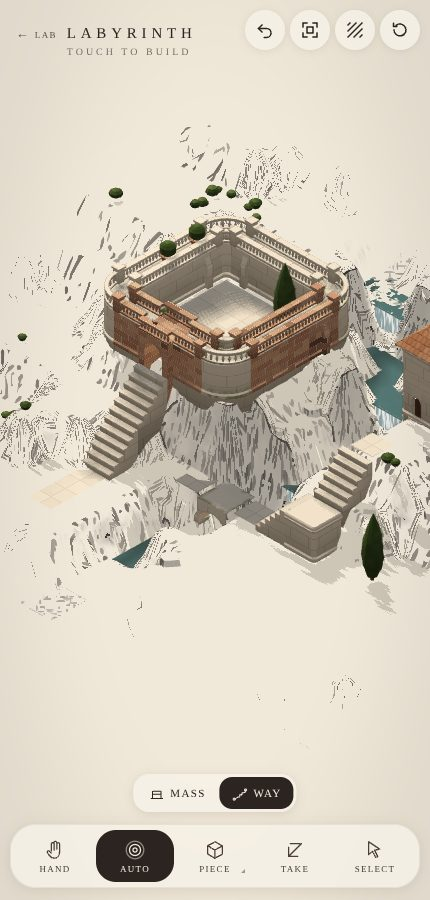
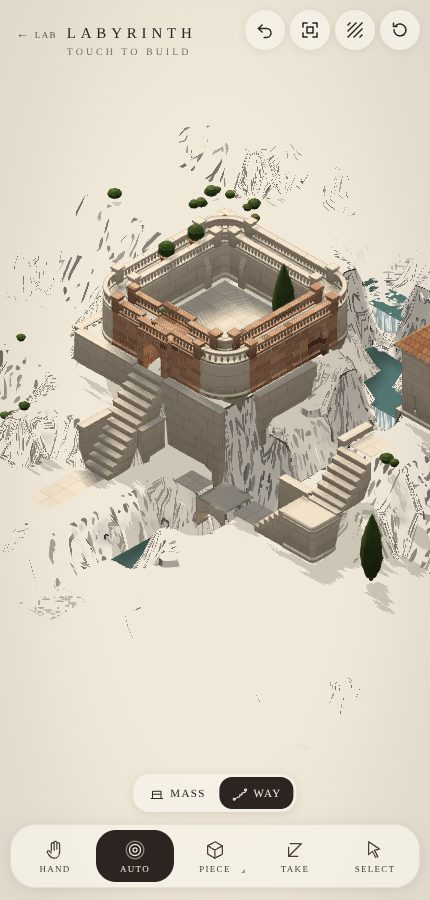
lab: labyrinth — forms chosen by their surroundings: retaining walls holding used banks, buildings stepping with the slope under lean-tos, houses set into hills (roof away from the hill, a door from above); story 15, views, README
Claude-Session: https://claude.ai/code/session_01D2Nx3PayKJtFYoab5A57H3

diff --git a/cells/lab/client/labyrinth/buildings.ts b/cells/lab/client/labyrinth/buildings.ts
@@ -66,9 +66,22 @@ function find(w: World): Buildings {
   const seen = new Set<number>();
   // (the walk as the stone shows it, and what of it can be reached from the slab)
   const nav = navigate(w), ground = new Set<number>(), st: number[] = [];
-  for (const v of nav.places) if (unkey(v)[0] === 0) { ground.add(v); st.push(v); }
+  // (on the land, its ground at each column's own level)
+  for (const v of nav.places) { const [k, i, j] = unkey(v); if (k === w.ground(i, j)) { ground.add(v); st.push(v); } }
   while (st.length) { const v = st.pop()!; for (const u of nav.next.get(v) ?? []) if (!ground.has(u)) { ground.add(u); st.push(u); } }
   const chance = (p: number, ...n: number[]) => hash(w.seed, ...n) % 1000 < p * 1000;
+  // (masses as a whole, whatever height each column of them reaches: one built across a slope, steps of it at
+  // different heights, is read as stepping, each step a building of its own if the whole is deep)
+  const anyH = (i: number, j: number) => solid(i, j, height(i, j));
+  const massOf = new Map<string, { deep: boolean; heights: Set<number> }>();
+  for (let j = e.j0; j <= e.j1; j++) for (let i = e.i0; i <= e.i1; i++) {
+    if (!anyH(i, j) || massOf.has(`${i}.${j}`)) continue;
+    const m = { deep: false, heights: new Set<number>() }, q: Array<[number, number]> = [[i, j]], cs: Array<[number, number]> = [];
+    massOf.set(`${i}.${j}`, m);
+    while (q.length) { const [x, z] = q.pop()!; cs.push([x, z]); m.heights.add(height(x, z)); for (const [a, b] of DIRS) if (anyH(x + a, z + b) && !massOf.has(`${x + a}.${z + b}`)) { massOf.set(`${x + a}.${z + b}`, m); q.push([x + a, z + b]); } }
+    const has = new Set(cs.map(([x, z]) => `${x}.${z}`));
+    m.deep = cs.some(([x, z]) => has.has(`${x + 1}.${z}`) && has.has(`${x}.${z + 1}`) && has.has(`${x + 1}.${z + 1}`));
+  }
 
   for (let j = e.j0; j <= e.j1; j++) for (let i = e.i0; i <= e.i1; i++) {
     const h = height(i, j);
@@ -82,7 +95,8 @@ function find(w: World): Buildings {
     // (a stair tower, put where a climb was too steep for a flight: a building however slim, two high or more)
     const stairTower = cols.find(([x, z]) => isTower(w.rules.get(key(0, x, z))));
     const deep = cols.some(([x, z]) => has.has(`${x + 1}.${z}`) && has.has(`${x}.${z + 1}`) && has.has(`${x + 1}.${z + 1}`)), tower = (cols.length <= 2 && h >= 3) || !!stairTower;
-    if (!deep && !tower) continue;
+    const whole = massOf.get(`${i}.${j}`);
+    if (!deep && !tower && !(whole?.deep && whole.heights.size > 1)) continue;
     const mine = new Set(cols.map(([x, z]) => `${x}.${z}`)), id = Math.min(...cols.map(([x, z]) => key(h - 1, x, z)));
     const b: Building = { cols, h, i0, i1, j0, j1, rect: cols.length === (i1 - i0 + 1) * (j1 - j0 + 1), tower, openings: [], inside: false, walked: false, roof: null, id, fall: -1 };
     // (its faces: each column's sides that look out, at each level, and what's outside them)
@@ -90,7 +104,7 @@ function find(w: World): Buildings {
     for (const [x, z] of cols) for (let d = 0; d < 4; d++) {
       const [a, bb] = DIRS[d];
       if (mine.has(`${x + a}.${z + bb}`)) continue;
-      for (let k = w.ground(x, z); k < h; k++) if (!w.stone(k, x + a, z + bb) && w.stair(k, x + a, z + bb) < 0) faces.push({ k, i: x, j: z, d, out: [k, x + a, z + bb] });
+      for (let k = w.ground(x, z); k < h; k++) if (!w.stone(k, x + a, z + bb) && w.stair(k, x + a, z + bb) < 0 && !w.earth(k, x + a, z + bb)) faces.push({ k, i: x, j: z, d, out: [k, x + a, z + bb] });
     }
     // (its top: walked if a way arrives there from beyond it)
     const tops = cols.map(([x, z]) => key(h, x, z)).filter((v) => nav.places.has(v)), topSet = new Set(tops);
@@ -98,7 +112,9 @@ function find(w: World): Buildings {
     const arrives = tops.some((v) => (nav.next.get(v) ?? []).some((u) => !topSet.has(u))) || (!!stairTower && tops.length > 0);
     // (doors where ways arrive against its walls, at height)
     const placeAt = (c: Cell) => key(...c);
-    const upper = faces.filter((f) => f.k >= 1 && standing(w, ...f.out));
+    // (above its own foot: a door from a way at height, or (set into a bank) from the hill above)
+    // (not out onto another building's top: that's under its roof)
+    const upper = faces.filter((f) => f.k > w.ground(f.i, f.j) && standing(w, ...f.out) && !(anyH(f.out[1], f.out[2]) && height(f.out[1], f.out[2]) === f.k));
     // (a stair inside, if a way at one of those doors, or on its top, can't be reached from the slab otherwise)
     const unreached = upper.some((f) => !ground.has(placeAt(f.out))) || (arrives && tops.some((v) => !ground.has(v)));
     const foot = faces.filter((f) => f.k === w.ground(f.i, f.j) && standing(w, ...f.out) && ground.has(placeAt(f.out)));
@@ -146,9 +162,13 @@ function find(w: World): Buildings {
       // (the rules' choice: leaning on taller stone, a shed roof falling away from it; square, hipped (now and then a dome
       // on a tower); long, a gable along it)
       const W = i1 - i0 + 1, D = j1 - j0 + 1;
-      const taller = [0, 1, 2, 3].filter((d) => { const [a, bb] = DIRS[d]; return cols.every(([x, z]) => mine.has(`${x + a}.${z + bb}`) || height(x + a, z + bb) > h) && cols.some(([x, z]) => !mine.has(`${x + a}.${z + bb}`)); });
-      b.roof = taller.length === 1 ? 'shed' : W === D ? (tower && chance(0.35, id, 4) ? 'dome' : 'hipped') : chance(0.25, id, 5) ? 'hipped' : 'gable';
-      if (taller.length === 1) b.fall = (taller[0] + 2) % 4;
+      // (against taller stone, or set into a bank whose ground comes up to its eaves: the hill)
+      const taller = [0, 1, 2, 3].filter((d) => { const [a, bb] = DIRS[d]; const out = cols.filter(([x, z]) => !mine.has(`${x + a}.${z + bb}`)); return out.length > 0 && out.filter(([x, z]) => height(x + a, z + bb) > h || (!!w.land && w.ground(x + a, z + bb) >= h - 1)).length * 2 >= out.length; });
+      // (leaning on more than one side, it falls away from the highest)
+      const rise = (d: number) => { const [a, bb] = DIRS[d], o = cols.filter(([x, z]) => !mine.has(`${x + a}.${z + bb}`)); return o.reduce((t, [x, z]) => t + Math.max(height(x + a, z + bb), w.ground(x + a, z + bb)), 0) / Math.max(1, o.length); };
+      const lean = taller.sort((p, q) => rise(q) - rise(p) || p - q)[0];
+      b.roof = taller.length ? 'shed' : W === D ? (tower && chance(0.35, id, 4) ? 'dome' : 'hipped') : chance(0.25, id, 5) ? 'hipped' : 'gable';
+      if (taller.length) b.fall = (lean + 2) % 4;
     }
     if (b.roof === 'shed' && b.fall < 0) b.fall = (hash(w.seed, id, 6) % 4);
     if (b.roof && b.roof !== 'shed') b.fall = -1;

diff --git a/cells/lab/client/labyrinth/mesh.ts b/cells/lab/client/labyrinth/mesh.ts
@@ -22,6 +22,7 @@ import { buildings, opening, type Building, type Opening } from './buildings';
 import { BUT, BUTH, BUTW, WT, buttresses, inBlock, outline, reach, wallCell, type Edge } from './form';
 import { CENTER, DECK, DIRS, DRESS, key, unkey, type Span, type World } from './model';
 import { LAND, surfaceY } from './land';
+import { groundY, retaining } from './context';
 
 /** floats a vertex: position, normal, ao (1 open .. 0 shut in), material (MAT), its rising (when laid, the height it
  * grows from, how), and a seed for its stone's tone */
@@ -702,7 +703,7 @@ export function buildMesh(w: World, plain = false, selected: Set<number> = new S
    */
   function landMesh() {
     const land = w.land!, B = w.extent(), x0 = B.i0, x1 = B.i1 + 1, z0 = B.j0, z1 = B.j1 + 1, RES = (x1 - x0) * (z1 - z0) > 500 ? 3 : 4;
-    const Y = (gx: number, gz: number) => surfaceY(land, Math.min(x1 - 1e-4, Math.max(x0, gx)), Math.min(z1 - 1e-4, Math.max(z0, gz)));
+    const Y = (gx: number, gz: number) => groundY(w, Math.min(x1 - 1e-4, Math.max(x0, gx)), Math.min(z1 - 1e-4, Math.max(z0, gz)));
     cur = { born: -1e3, pivot: 0, how: 1, tone: 0.5, dress: 0, sel: false };
     const nx = (x1 - x0) * RES, nz = (z1 - z0) * RES;
     const P = (a: number, b: number): V3 => { const gx = x0 + a / RES, gz = z0 + b / RES; return [gx - CENTER, Y(gx, gz), gz - CENTER]; };
@@ -748,6 +749,8 @@ export function buildMesh(w: World, plain = false, selected: Set<number> = new S
       cur = { born: -1e3, pivot: 0, how: 1, tone: 0, dress: 0, sel: selected.has(key(g, i, j)) };
       quad([cx + e(2), y, cz + e(3)], [cx + 1 - e(0), y, cz + e(3)], [cx + 1 - e(0), y, cz + 1 - e(1)], [cx + e(2), y, cz + 1 - e(1)], [0, 1, 0], 0.95, MAT.court);
     }
+    // (banks held by walls, where what's beside them is used: context.ts)
+    for (const r of new Set(retaining(w).values())) retainingWall(r);
     cur = { born: -1e3, pivot: 0, how: 1, tone: 0.5, dress: 0, sel: false };
     // (what grows and lies on it, sparing, where nothing's built)
     const r = (...n: number[]) => hash(land.seed, ...n) / 4294967296;
@@ -787,6 +790,33 @@ export function buildMesh(w: World, plain = false, selected: Set<number> = new S
       else if (!bank && r(q, 30) < 0.035) cypress(i, j, g, -1e3, 3 + 0.999 * r(q, 42));
     }
     cur = { born: -1e3, pivot: 0, how: 1, tone: 0, dress: 0, sel: false };
+  }
+  /**
+   * A retaining wall, holding a bank where it's used: along the edge between the high cell and the low, its face out
+   * into the low one, battered (thicker at its foot), from a little under the low ground up to the high, coped; a low
+   * upstand over the coping where the ground above is open; an end where it doesn't run on
+   */
+  function retainingWall(r: { i: number; j: number; d: number; lo: number; hi: number }) {
+    const [a, b] = DIRS[r.d], [ta, tb] = DIRS[(r.d + 1) % 4], bx = X(r.i) + 0.5 + a * 0.5, bz = Z(r.j) + 0.5 + b * 0.5;
+    const up = w.occupied(r.hi, r.i, r.j) ? 0 : 0.1, yb = r.lo - 0.35, yt = r.hi + up, TB = 0.24, TT = 0.13, C = 0.05;
+    const P = (s: number, u: number, y: number): V3 => [bx + ta * s + a * u, y, bz + tb * s + b * u];
+    const on = (sg: number) => retaining(w).has(`${r.i + sg * ta}.${r.j + sg * tb}.${r.d}`);
+    cur = { born: -1e3, pivot: yb, how: 1, tone: (((r.i * 73856093) ^ (r.j * 19349663) ^ (r.d * 83492791)) >>> 0) / 4294967296, dress: 0, sel: false };
+    const n = Math.hypot(yt - yb, TB - TT);
+    quad(P(-0.5, TB, yb), P(0.5, TB, yb), P(0.5, TT, yt), P(-0.5, TT, yt), [a * (yt - yb) / n, (TB - TT) / n, b * (yt - yb) / n], [0.55, 0.55, 0.9, 0.9], MAT.stone);
+    // (its coping: out a little either side, its top, its edges)
+    const c0 = -0.07, c1 = TT + 0.04;
+    quad(P(-0.5, c0, yt + C), P(0.5, c0, yt + C), P(0.5, c1, yt + C), P(-0.5, c1, yt + C), [0, 1, 0], 1, MAT.stone);
+    quad(P(-0.5, c1, yt), P(0.5, c1, yt), P(0.5, c1, yt + C), P(-0.5, c1, yt + C), [a, 0, b], 0.9, MAT.stone);
+    quad(P(-0.5, c1, yt), P(0.5, c1, yt), P(0.5, TT, yt), P(-0.5, TT, yt), [0, -1, 0], 0.5, MAT.stone);
+    if (up > 0) quad(P(-0.5, c0, r.hi), P(0.5, c0, r.hi), P(0.5, c0, yt + C), P(-0.5, c0, yt + C), [-a, 0, -b], 0.85, MAT.stone);
+    for (const sg of [-1, 1]) {
+      if (on(sg)) continue;
+      const s = sg * 0.5;
+      quad(P(s, 0, yb), P(s, TB, yb), P(s, TT, yt), P(s, 0, yt), [ta * sg, 0, tb * sg], 0.8, MAT.stone);
+      quad(P(s, c0, yt), P(s, c1, yt), P(s, c1, yt + C), P(s, c0, yt + C), [ta * sg, 0, tb * sg], 0.9, MAT.stone);
+      if (up > 0) quad(P(s, c0, r.hi), P(s, 0, r.hi), P(s, 0, yt), P(s, c0, yt), [ta * sg, 0, tb * sg], 0.85, MAT.stone);
+    }
   }
   /** a thin wall: a wall's thickness, full height, running out from its middle to the stone beside it */
   function thinWall(k: number, i: number, j: number) {
@@ -1187,6 +1217,6 @@ export function inStone(w: World, x: number, y: number, z: number): boolean {
 export function inLand(w: World, x: number, y: number, z: number): boolean {
   if (!w.land) return false;
   if (!w.onSlab(Math.floor(x + CENTER), Math.floor(z + CENTER))) return false;
-  const sy = surfaceY(w.land, x + CENTER, z + CENTER);
+  const sy = groundY(w, x + CENTER, z + CENTER);
   return sy >= 0 && y < sy;
 }

diff --git a/cells/lab/client/labyrinth/context.ts b/cells/lab/client/labyrinth/context.ts
@@ -1,0 +1,60 @@
+/**
+ * Forms chosen by their surroundings: what the land and what's built beside it ask of each other, worked out from the
+ * resolved world (model.ts), the same every time.
+ *
+ * - **Retaining walls**: where the land steps down a bank (one to three levels) and either side of it is used (a way, a
+ *   court's or a way's paving, something built at the ground, a pool, a bowl), the bank is held by a wall of dressed
+ *   stone instead of falling away: the ground either side flat to it, its face battered, coped along its top (a low
+ *   upstand where the ground above is open). Not where a stair climbs the bank (its own steps hold it), nor along water.
+ * - **Buildings stepping with the slope** (buildings.ts): a mass built across ground at different levels is read as
+ *   steps, each its own building at its own height, the lower against the higher under a lean-to; set into a bank, a
+ *   house's roof falls away from the hill, and it's come into from the hill above as well as from below; the wall a
+ *   building's downhill side stands on carried down to the lower ground (a retaining wall under it).
+ */
+import { DIRS, key, type World } from './model';
+import { surfaceY } from './land';
+
+/** a bank held by a wall: the high cell, the way to the low one, the two grounds */
+export interface Retain { i: number; j: number; d: number; lo: number; hi: number }
+const cache = new WeakMap<World, { v: number; r: Map<string, Retain>; sharp: (i: number, j: number, d: number) => boolean }>();
+
+/** where the land's banks are held by walls (keyed from both sides: `i.j.d`) */
+export function retaining(w: World): Map<string, Retain> { return worked(w).r; }
+function worked(w: World) {
+  const c = cache.get(w);
+  if (c && c.v === w.version) return c;
+  const r = new Map<string, Retain>();
+  if (w.land) {
+    const e = w.extent(), wet = (i: number, j: number) => !!w.land?.water.has(j * 1000 + i);
+    const used = (i: number, j: number) => {
+      const g = w.ground(i, j);
+      return w.paved(i, j) || w.courts.has(key(0, i, j)) || w.occupied(g, i, j) || w.way(g, i, j) || w.bowl(g, i, j) || w.pools.has(key(0, i, j)) || w.tree(g, i, j);
+    };
+    for (let j = e.j0; j <= e.j1; j++) for (let i = e.i0; i <= e.i1; i++) {
+      const hi = w.ground(i, j);
+      if (wet(i, j)) continue;
+      for (let d = 0; d < 4; d++) {
+        const [a, b] = DIRS[d], x = i + a, z = j + b;
+        if (!w.onSlab(x, z) || wet(x, z)) continue;
+        const lo = w.ground(x, z), drop = hi - lo;
+        if (drop < 1 || drop > 3 || !(used(i, j) || used(x, z))) continue;
+        // (not where a stair climbs it: its steps hold it)
+        if (w.stair(lo, x, z) === (d + 2) % 4 || w.stair(hi - 1, x, z) === (d + 2) % 4) continue;
+        const it = { i, j, d, lo, hi };
+        r.set(`${i}.${j}.${d}`, it); r.set(`${x}.${z}.${(d + 2) % 4}`, it);
+      }
+    }
+  }
+  const out = { v: w.version, r, sharp: (i: number, j: number, d: number) => r.has(`${i}.${j}.${d}`) };
+  cache.set(w, out);
+  return out;
+}
+/** the ground as it's drawn (grid units: cell (i, j) spans i..i+1), its banks held where they're walled */
+export function groundY(w: World, x: number, z: number): number {
+  if (!w.land) return 0;
+  const s = worked(w).sharp, y = surfaceY(w.land, x, z, s);
+  // (on a cell's edge, where a wall holds the bank, the higher side's)
+  const fx = x - Math.round(x), fz = z - Math.round(z);
+  if (Math.abs(fx) < 1e-6 || Math.abs(fz) < 1e-6) return Math.max(y, surfaceY(w.land, x - 1e-4, z - 1e-4, s), surfaceY(w.land, x + 1e-4, z + 1e-4, s), surfaceY(w.land, x - 1e-4, z + 1e-4, s), surfaceY(w.land, x + 1e-4, z - 1e-4, s));
+  return y;
+}

diff --git a/cells/lab/experiments.ts b/cells/lab/experiments.ts
@@ -28,7 +28,7 @@ export const EXPERIMENTS: Experiment[] = [
     id: 'labyrinth', title: 'Labyrinth', group: 'Play',
     blurb: 'Architecture that follows the hand, on a piece of land: shelves, a ravine with a stream, an outcrop (or the flat travertine slab). Five brushes: auto reads gestures (tap raises, trace builds a wall, reaches out or climbs) and the stone works out what it takes to stand; a piece brush for one thing exactly, or dressing (brick, marble, moss, ivy, parapets, lanterns, pots); take; and select, to take up a piece or a whole arcade, flight or tower and read it another way. Arches and arcades under what has nothing beneath it, courtyards where walls close round the ground. Kept as a print, too.',
     page: 'static/labyrinth.html', preview: 'preview', readme: 'static/labyrinth.md',
-    presets: [{ label: 'the land', query: 'land=6' }, { label: '12 · on the land', query: 'story=12' }, { label: '13 · a place for cats', query: 'story=13' }, { label: '14 · water', query: 'story=14' }, { label: 'the stone', query: 'ops=[]' }, { label: '1 · first touch', query: 'story=1' }, { label: '2 · a traced wall', query: 'story=2' }, { label: '3 · an elevated connection', query: 'story=3' }, { label: '4 · a resolved labyrinth', query: 'story=4' }, { label: 'motifs and dressing', query: 'story=6' }, { label: 'auto alone, no cap', query: 'story=7' }, { label: '8 · a labyrinth', query: 'story=8' }, { label: '9 · features and rhythms', query: 'story=9' }, { label: '10 · flow', query: 'story=10' }, { label: '11 · gestures read', query: 'story=11' }, { label: 'as a print', query: 'story=4&print' }],
+    presets: [{ label: 'the land', query: 'land=6' }, { label: '12 · on the land', query: 'story=12' }, { label: '13 · a place for cats', query: 'story=13' }, { label: '14 · water', query: 'story=14' }, { label: '15 · on the slope', query: 'story=15' }, { label: 'the stone', query: 'ops=[]' }, { label: '1 · first touch', query: 'story=1' }, { label: '2 · a traced wall', query: 'story=2' }, { label: '3 · an elevated connection', query: 'story=3' }, { label: '4 · a resolved labyrinth', query: 'story=4' }, { label: 'motifs and dressing', query: 'story=6' }, { label: 'auto alone, no cap', query: 'story=7' }, { label: '8 · a labyrinth', query: 'story=8' }, { label: '9 · features and rhythms', query: 'story=9' }, { label: '10 · flow', query: 'story=10' }, { label: '11 · gestures read', query: 'story=11' }, { label: 'as a print', query: 'story=4&print' }],
   },
   {
     id: 'fab', title: 'Fab', group: 'Play',

diff --git a/cells/lab/client/labyrinth/cats.ts b/cells/lab/client/labyrinth/cats.ts
@@ -20,7 +20,7 @@
 import { hash, seeded, type Rand } from '../kit/rng';
 import { CENTER, DIRS, unkey, type World } from './model';
 import { inStone } from './mesh';
-import { surfaceY } from './land';
+import { groundY } from './context';
 import { perches, route, reachable, stairY, type Link, type Perches, type Spot } from './perches';
 import { POSES, S, cat as body, gait, look, mix, type Out, type Pose, type PoseName } from './catbody';
 
@@ -226,7 +226,7 @@ export class Cats {
     // (on a place that's still there, it's held (a parapet's top isn't stone a touch strikes, but it's stood on))
     const s = this.place(c.at);
     if (s && Math.hypot(s.x - c.x, s.y - c.y, s.z - c.z) < 0.2) return;
-    const ground = w.land ? surfaceY(w.land, c.x + CENTER, c.z + CENTER) : 0;
+    const ground = groundY(w, c.x + CENTER, c.z + CENTER);
     if (c.y > ground + 0.05 && !solid(c.y - 0.06) && !solid(c.y - 0.2) && c.moving < 0.02 && this.t - this.built > 1) this.stale = true;
   }
 
@@ -320,14 +320,14 @@ export class Cats {
   /** one link: a walk, a jump, or a way through a building unseen */
   private *traverse(c: Cat, a: Spot, b: Spot, l: Link, speed: number): Task {
     const land = this.w!.land;
-    const groundY = (x: number, z: number) => (land ? surfaceY(land, x + CENTER, z + CENTER) : 0);
+    const onGroundY = (x: number, z: number) => (land ? groundY(this.w!, x + CENTER, z + CENTER) : 0);
     if (l.kind === 'walk') {
       const y0 = c.y, onGround = a.ground && b.ground;
       // (on a stair: along its steps' noses, by where it is in the stair's cell)
       const u = (s: Spot, x: number, z: number) => 0.5 + (x - s.x) * DIRS[s.d][0] + (z - s.z) * DIRS[s.d][1];
       const stairs = [a, b].filter((s) => s.kind === 'stair');
       const onStair = (x: number, z: number) => { const s = stairs.find((q) => { const v = u(q, x, z); return v >= 0 && v <= 1; }) ?? stairs[0]; return stairY(s.k, u(s, x, z)); };
-      yield* this.walkTo(c, b.x, b.z, speed, (f, x, z) => (stairs.length ? onStair(x, z) : onGround ? groundY(x, z) : y0 + (b.y - y0) * f));
+      yield* this.walkTo(c, b.x, b.z, speed, (f, x, z) => (stairs.length ? onStair(x, z) : onGround ? onGroundY(x, z) : y0 + (b.y - y0) * f));
       return;
     }
     if (l.kind === 'inside') {

diff --git a/cells/lab/client/labyrinth/demo.ts b/cells/lab/client/labyrinth/demo.ts
@@ -39,6 +39,7 @@ export function story(stage: number): World {
   if (stage === 12) return onTheLand();
   if (stage === 13) return forCats();
   if (stage === 14) return water();
+  if (stage === 15) return onTheSlope();
   const w = new World(7);
   const t = -100;
   const tapAt = (p: Pick) => { const op = tap(w, p, t); if (op && !('refused' in op)) w.apply(op, t); };
@@ -313,5 +314,25 @@ function water(): World {
   apply(run(w, 'pool', top(2, 8), [[2, 8], [3, 8], [4, 8], [5, 8], [6, 8], [7, 8]], 0, t));
   // (a pond: the pool brush drawn round, back to its start)
   apply(run(w, 'pool', g(9, 2), [[9, 2], [10, 2], [11, 2], [11, 3], [11, 4], [11, 5], [10, 5], [9, 5], [9, 4], [9, 3]], 0, t));
+  return w;
+}
+
+/**
+ * storyboard 15: forms chosen by their surroundings, on the land. A house built across a bank, two storeys on each
+ * side of it: read as two steps, each under a lean-to, the lower against the higher, the higher's falling away from the
+ * hill. A house set into a cliff, three storeys: its roof falls away from the hill and it's come into from the hill
+ * above as well as from below. A way up the slope: where it runs along a bank, the bank's held by a wall.
+ */
+function onTheSlope(): World {
+  const w = new World(41, 6), t = -100;
+  const g = (i: number, j: number): Pick => { const k = w.ground(i, j); return { face: 'ground', hit: [k - 1, i, j], to: [k, i, j] }; };
+  const raise = (i: number, j: number, n: number) => w.apply({ add: Array.from({ length: n }, (_, k) => [w.ground(i, j) + k, i, j, t] as [number, number, number, number]) }, t);
+  // (across the bank: two storeys on each side of it)
+  for (const i of [10, 11]) for (const j of [4, 5, 6, 7]) raise(i, j, 2);
+  // (set into the cliff: three storeys, the hill at its back two storeys up)
+  for (const i of [2, 3]) raise(i, 7, 3);
+  // (a way from the low ground up past them)
+  const op = trace(w, g(7, 10), [[7, 10], [7, 9], [7, 8], [7, 7], [7, 6], [7, 5], [7, 4], [8, 4], [8, 3], [8, 2]], g(8, 2), () => t, t, [], 'way');
+  if (op && !('refused' in op)) w.apply({ ...op, alts: undefined }, t);
   return w;
 }

diff --git a/cells/lab/client/labyrinth/land.ts b/cells/lab/client/labyrinth/land.ts
@@ -167,14 +167,15 @@ export const groundOf = (land: Land, i: number, j: number) => (onLand(i, j) ? la
  * its column's level through its middle, meeting its neighbours' across the band at its edge, roughened where it slopes.
  * Off the land, nothing (−1).
  */
-export function surfaceY(land: Land, x: number, z: number): number {
+export function surfaceY(land: Land, x: number, z: number, sharp?: (i: number, j: number, d: number) => boolean): number {
   const i = Math.floor(x), j = Math.floor(z);
   if (!onLand(i, j)) return -1;
   // (the stream's bed a little under its banks)
   const G = (a: number, b: number) => { const x = Math.max(DOMAIN.i0, Math.min(DOMAIN.i1, a)), y = Math.max(DOMAIN.j0, Math.min(DOMAIN.j1, b)); return land.g[atD(x, y)] - (land.water.has(y * 1000 + x) ? 0.3 : 0); };
   const fx = x - i - 0.5, fz = z - j - 0.5, sx = Math.sign(fx) || 1, sz = Math.sign(fz) || 1;
   // (how far into the band toward the neighbour each way: none through the flat middle, a half at the cell's edge)
-  const wx = 0.5 * smooth(FLAT * 0.5, 0.5, Math.abs(fx)), wz = 0.5 * smooth(FLAT * 0.5, 0.5, Math.abs(fz));
+  // (where a bank's held by a wall (`sharp`, toward a neighbour: 0 +x, 1 +z, 2 −x, 3 −z), each side flat to the wall)
+  const wx = sharp?.(i, j, sx > 0 ? 0 : 2) ? 0 : 0.5 * smooth(FLAT * 0.5, 0.5, Math.abs(fx)), wz = sharp?.(i, j, sz > 0 ? 1 : 3) ? 0 : 0.5 * smooth(FLAT * 0.5, 0.5, Math.abs(fz));
   const g0 = G(i, j), gx = G(i + sx, j), gz = G(i, j + sz), gd = G(i + sx, j + sz);
   let y = g0 + wx * (gx - g0) + wz * (gz - g0) + wx * wz * (gd - gx - gz + g0);
   // (rough where it slopes: a bank's not a ramp)

diff --git a/cells/lab/client/labyrinth/perches.ts b/cells/lab/client/labyrinth/perches.ts
@@ -22,7 +22,7 @@ import { navigate } from './nav';
 import { buildings } from './buildings';
 import { inStone, parapets, wallArms } from './mesh';
 import { reach } from './form';
-import { surfaceY } from './land';
+import { groundY, retaining } from './context';
 import { SUN } from './render';
 
 export type SpotKind = 'floor' | 'stair' | 'arch' | 'coping' | 'ledge' | 'rail';
@@ -91,7 +91,7 @@ export function perches(w: World): Perches {
     if (w.archway(k, i, j) >= 0 && !w.span(k, i, j)) { const s = add('arch', k, i, j, x, k, z, w.archway(k, i, j)); if (s) atCell.set(v, s.id); continue; }
     if (roofTop.has(v)) continue;
     if (k === g && decor.has(j * 1000 + i)) continue;
-    const y = w.land && k === g ? surfaceY(w.land, i + 0.5, j + 0.5) : k;
+    const y = w.land && k === g ? groundY(w, i + 0.5, j + 0.5) : k;
     if (k > g && !solid(x, y - 0.04, z)) continue;
     if (!roomy(x, y, z)) continue;
     const coping = k > 0 && w.wall(k - 1, i, j) >= 0;
@@ -124,7 +124,7 @@ export function perches(w: World): Perches {
     if (!a.ground) continue;
     for (const [p, q] of DIRS) {
       const b = spotAt(w.ground(a.i + p, a.j + q), a.i + p, a.j + q);
-      if (b?.ground && Math.abs(b.k - a.k) === 1) link(a, b, 'walk', 1.7);
+      if (b?.ground && Math.abs(b.k - a.k) === 1 && !retaining(w).has(`${a.i}.${a.j}.${DIRS.findIndex(([x, z]) => x === p && z === q)}`)) link(a, b, 'walk', 1.7);
     }
   }
 

diff --git a/cells/lab/static/labyrinth.md b/cells/lab/static/labyrinth.md
@@ -64,6 +64,18 @@ Next for the land:
 - keeping open: a passage, view or court protected from what auto builds later;
 - the land shaped by hand.
 
+## Forms chosen by their surroundings
+
+What's built and the land it's on ask things of each other (`context.ts`, `buildings.ts`), worked out afresh each time:
+
+- **Retaining walls.** Where the land steps down a bank (one to three levels) and either side of it is used (a way, paving, a court, something built at the ground, a pool, a bowl), the bank is held by a wall of dressed stone instead of falling away: the ground flat to it either side, its face battered (thicker at its foot), coped along its top, a low upstand where the ground above is open, an end where it doesn't run on. Not where a stair climbs the bank (its steps hold it), nor along the stream. The walk, the picking and the cats all take the ground as held.
+- **Buildings stepping with the slope.** A mass built across ground at different levels, so many storeys each side, is read as steps: each its own building at its own height (the whole deep enough to be lived in, even where a step is a single cell deep), the lower leaning on the higher under a lean-to. Its downhill side stands on the wall that holds the bank under it.
+- **Set into a hill.** A house whose ground behind it comes up to its eaves leans on the hill: its roof falls away from it (leaning on more than one side, away from the highest), and it's come into from the hill above, a door at the hill's level, as well as from below. No window or door looks into the earth; none opens onto another building's roof.
+- **Water** asks for its own: a bowl where it falls, a lip at its spout, no roof over it (below).
+
+![story 15: a house built across a bank, two steps under lean-tos falling downhill; a tower set into the cliff, its roof falling away from the hill, a door from the hill above; a way up the slope, its banks held by walls](labyrinth/v-slope.jpg)
+![close: the steps, the walls holding the bank beside the way](labyrinth/v-slope-close.jpg)
+
 ## Water
 
 **The pool brush lets water into whatever it touches**: the ground (a pool), or a top, up off the ground (a basin, let into the stone, a rim round it). Traced, it runs a channel along the stroke, along the ground or along a top. **A stroke drawn round, back to where it began, fills what it closes round**: a pond on the ground, a basin across a terrace. (With the block brush the same: a platform, filled.)
@@ -543,6 +555,7 @@ From the resolved world (`mesh.ts`), then WebGL2 (`render.ts`):
 ## Next
 
 - **Cats, further**: tails and ears answering each other; a mother and kittens; cats on roofs; a cat followed into a building's door; more of a cat's own places (a sill, a pot, a sunny step).
+- **Surroundings, further**: terraces cut into a hill as a gesture (a way's stroke that levels the ground it crosses); a building's windows turned to the view and its blank wall to the hill; a garden wall following the slope in steps; a bridge's abutments built into the banks.
 - **Water, further**: fountains (a jet in a court's pool), runnels along a way, water through an arch (a mill-race), a basin read as a cistern; a stream turned aside by what's built.
 - **Intent brushes**: a *path* (say where you want to walk, and the walk graph makes it walkable), *keep open* (nothing is to go here).
 - **Stamps**: whole motifs put at once (a gate, a cloister, a loggia).

diff --git a/cells/lab/static/labyrinth/views.md b/cells/lab/static/labyrinth/views.md
@@ -55,6 +55,11 @@ Made by `node cells/lab/views.mjs labyrinth` from `client/labyrinth/views.mjs`. 
 ![Another: another seed: another piece of land](v-land-2.jpg)
 ![Built at its edge: a house built at the land's edge: four more cells of the same land appear that way, from the same seed](v-land-grown.jpg)
 
+## Forms chosen by their surroundings
+
+![15 · On the slope: a house across a bank, read as two steps under lean-tos falling downhill; a tower set into the cliff, its roof falling away from the hill, a door from the hill above; a way up the slope, its banks held by walls](v-slope.jpg)
+![Steps, and walls holding the banks: the house in two steps, its lean-tos; the paving beside the way held by a battered, coped wall](v-slope-close.jpg)
+
 ## Water
 
 ![14 · Water: a tower's basin spilling onto a terrace's (water finds water), that one into a bowl on the ground; a channel along a wall spilling at its end; a pond, a stroke of the pool brush drawn round](v-water.jpg)
